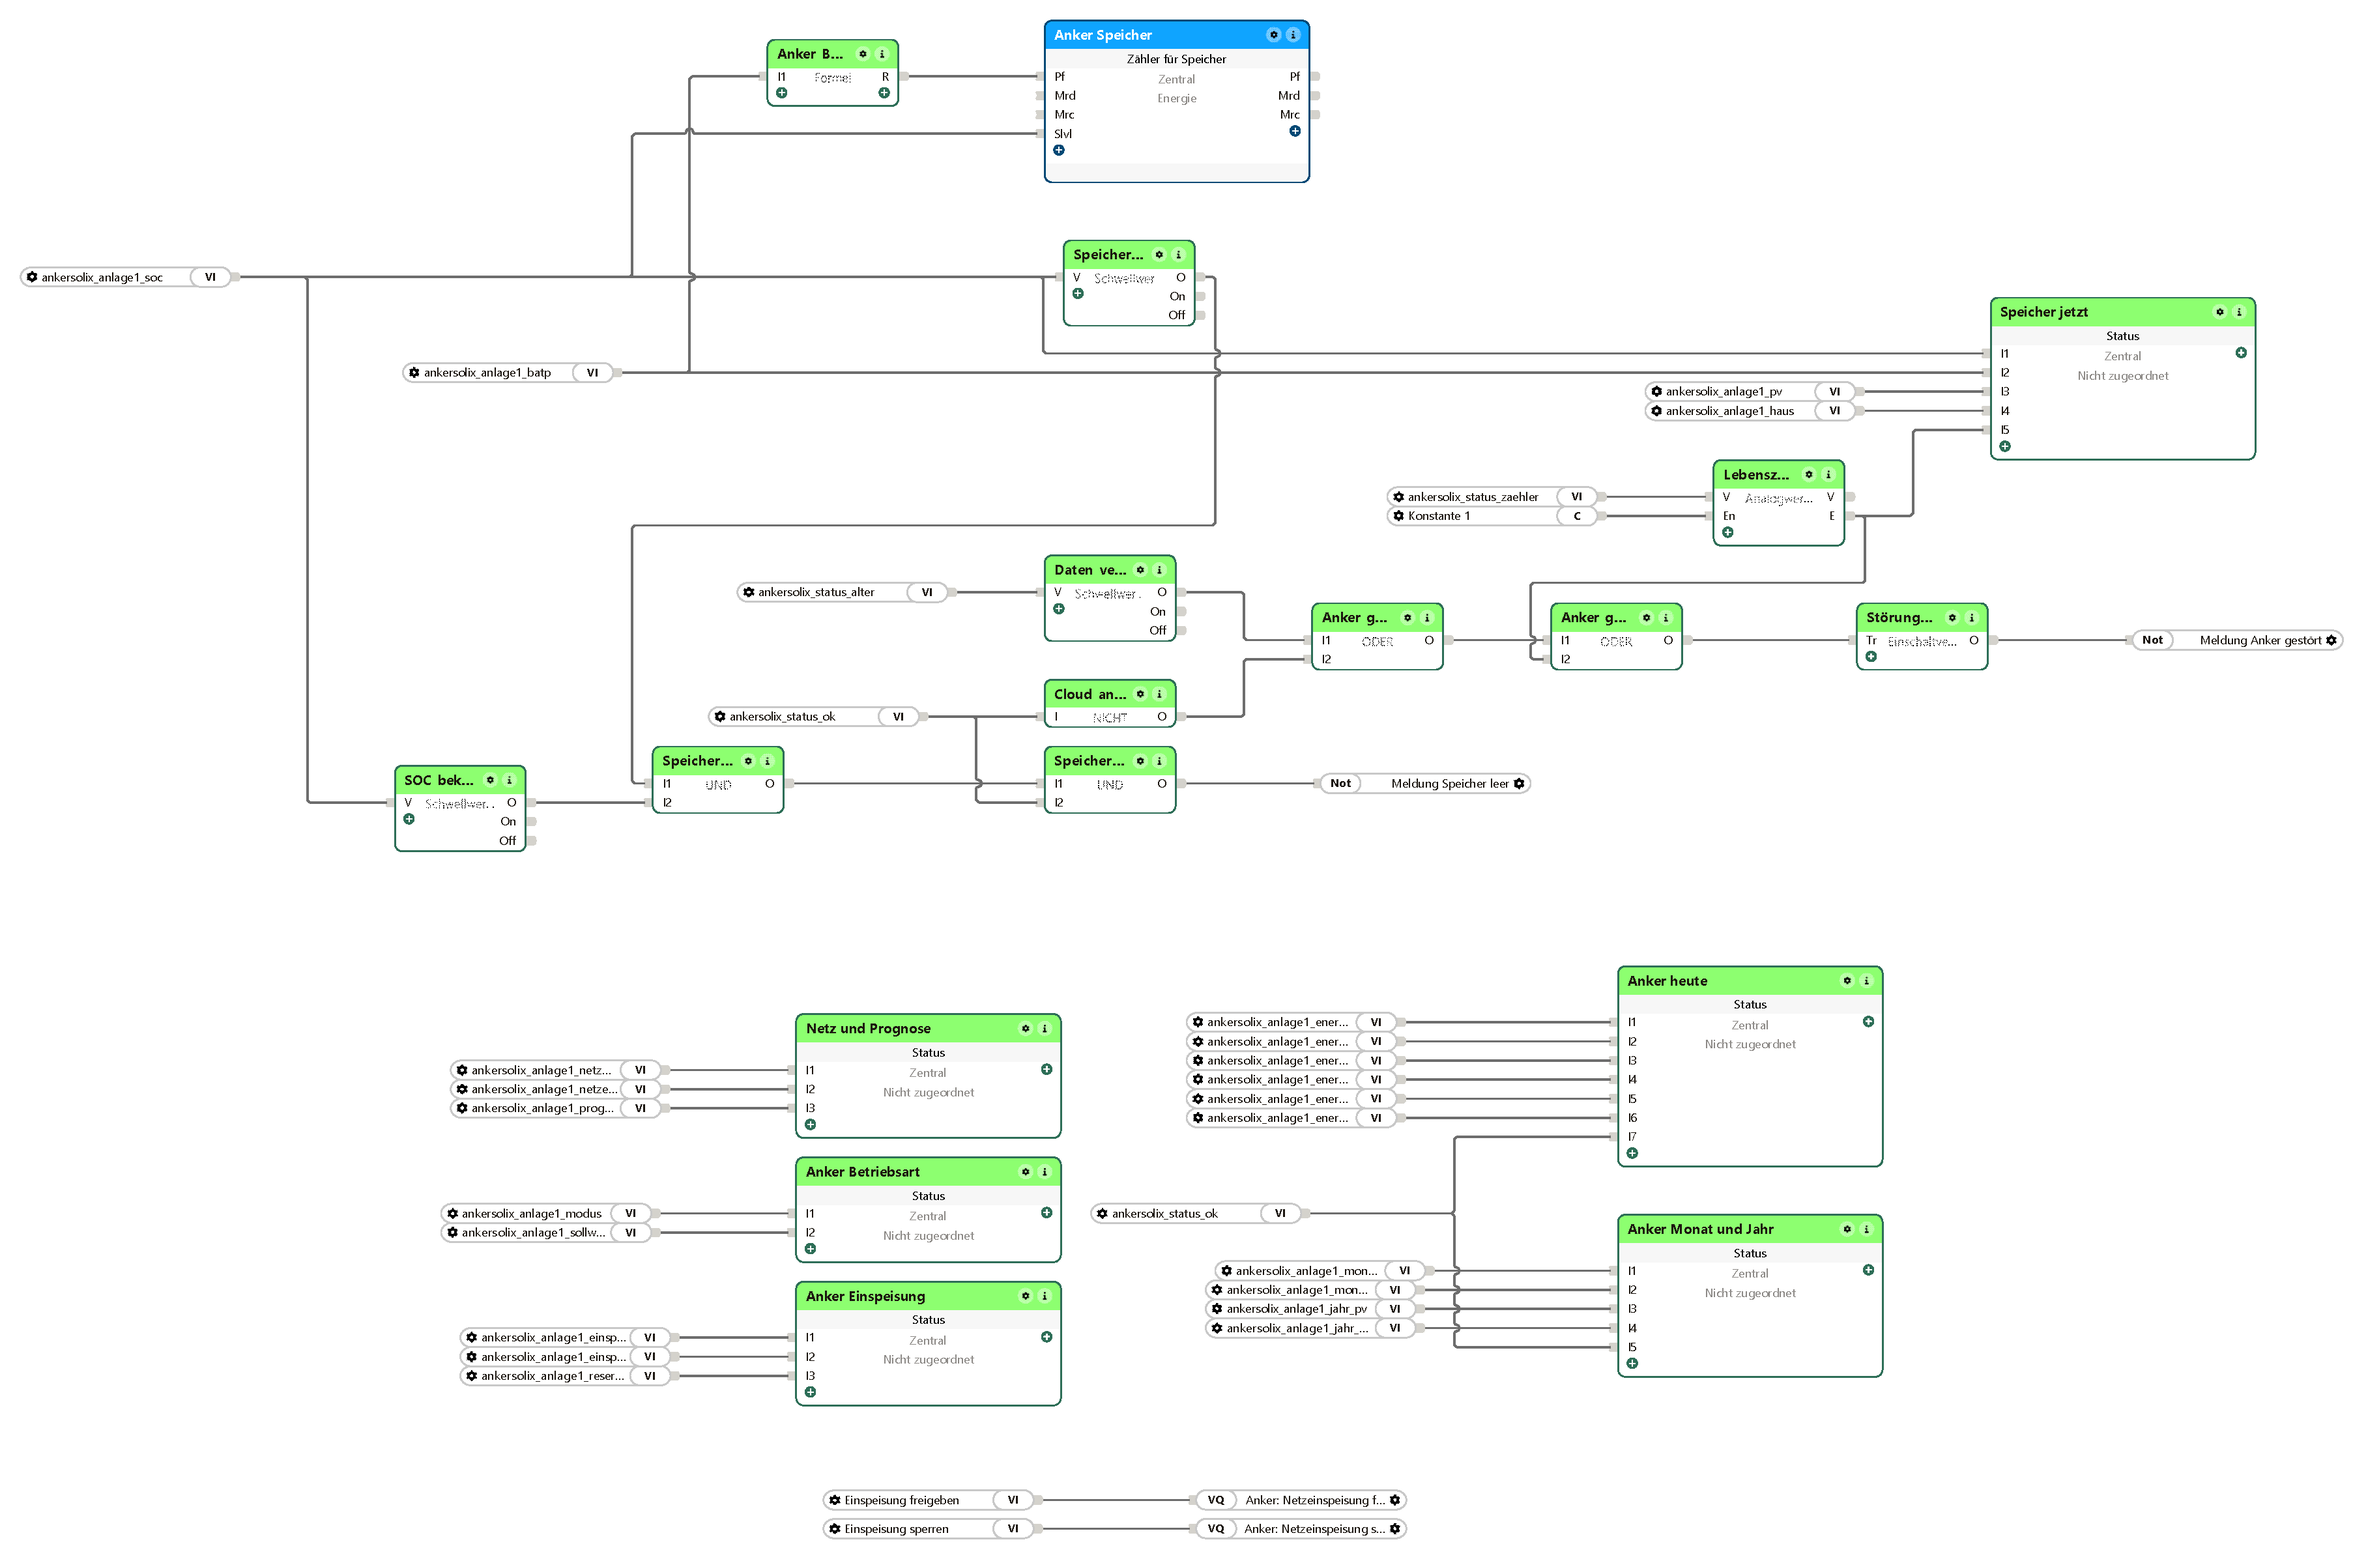
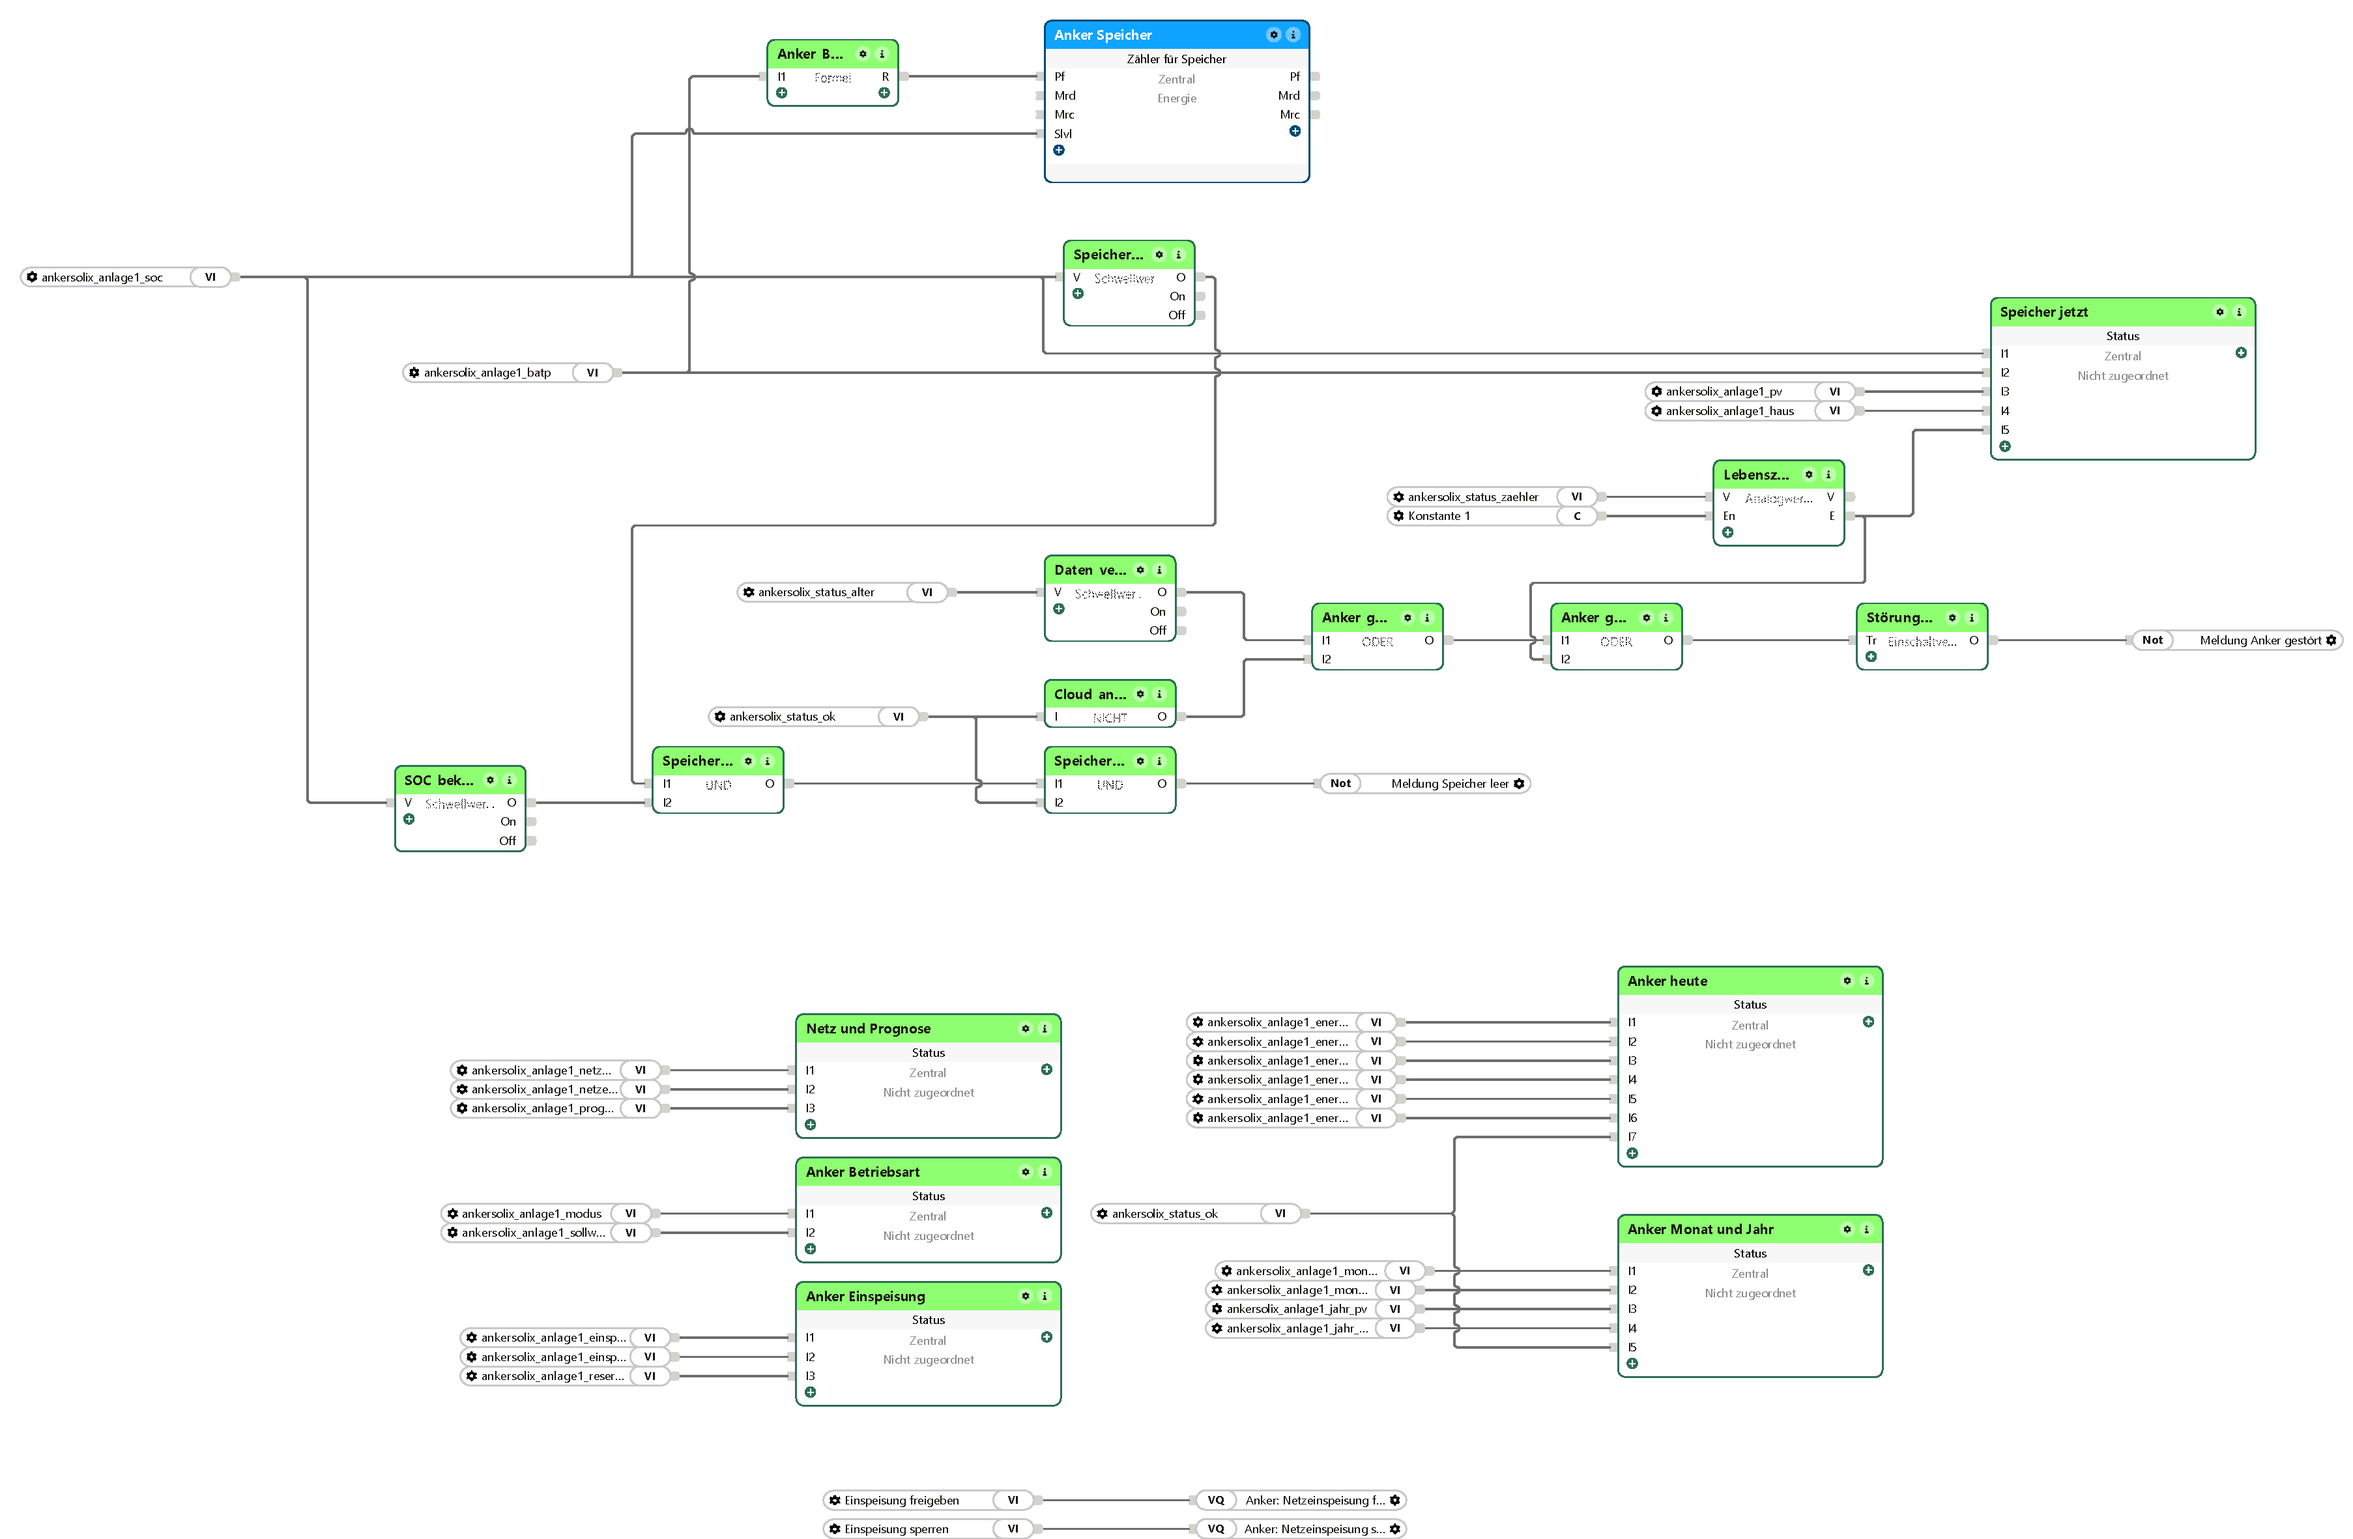
AnkerSolix 0.9.34: Bilder der Einbindung erneuert (Musterprojekt 614cd0f)
Bilder der Einbindung erneuert: Das Bild der Seite „AnkerSolix“ (Werte) zeigt die neu angeordnete Seite. Sonst keine Änderung gegen 0.9.33.

diff --git a/README.md b/README.md
@@ -16,6 +16,10 @@ System X1.
 > Einspeisegrenze, Notstromreserve und die Begrenzung des Wechselrichters. Sie
 > greifen über `set_station_parm` beziehungsweise `set_device_pv_power` ein.
 
+## Version 0.9.34
+
+Bilder der Einbindung erneuert: Das Bild der Seite „AnkerSolix“ (Werte) zeigt die neu angeordnete Seite. Sonst keine Änderung gegen 0.9.33.
+
 ## Version 0.9.33
 
 Pflegefassung der Nachtwelle (29.10.2026), ohne neue Funktion und ohne Änderung am Verhalten:
